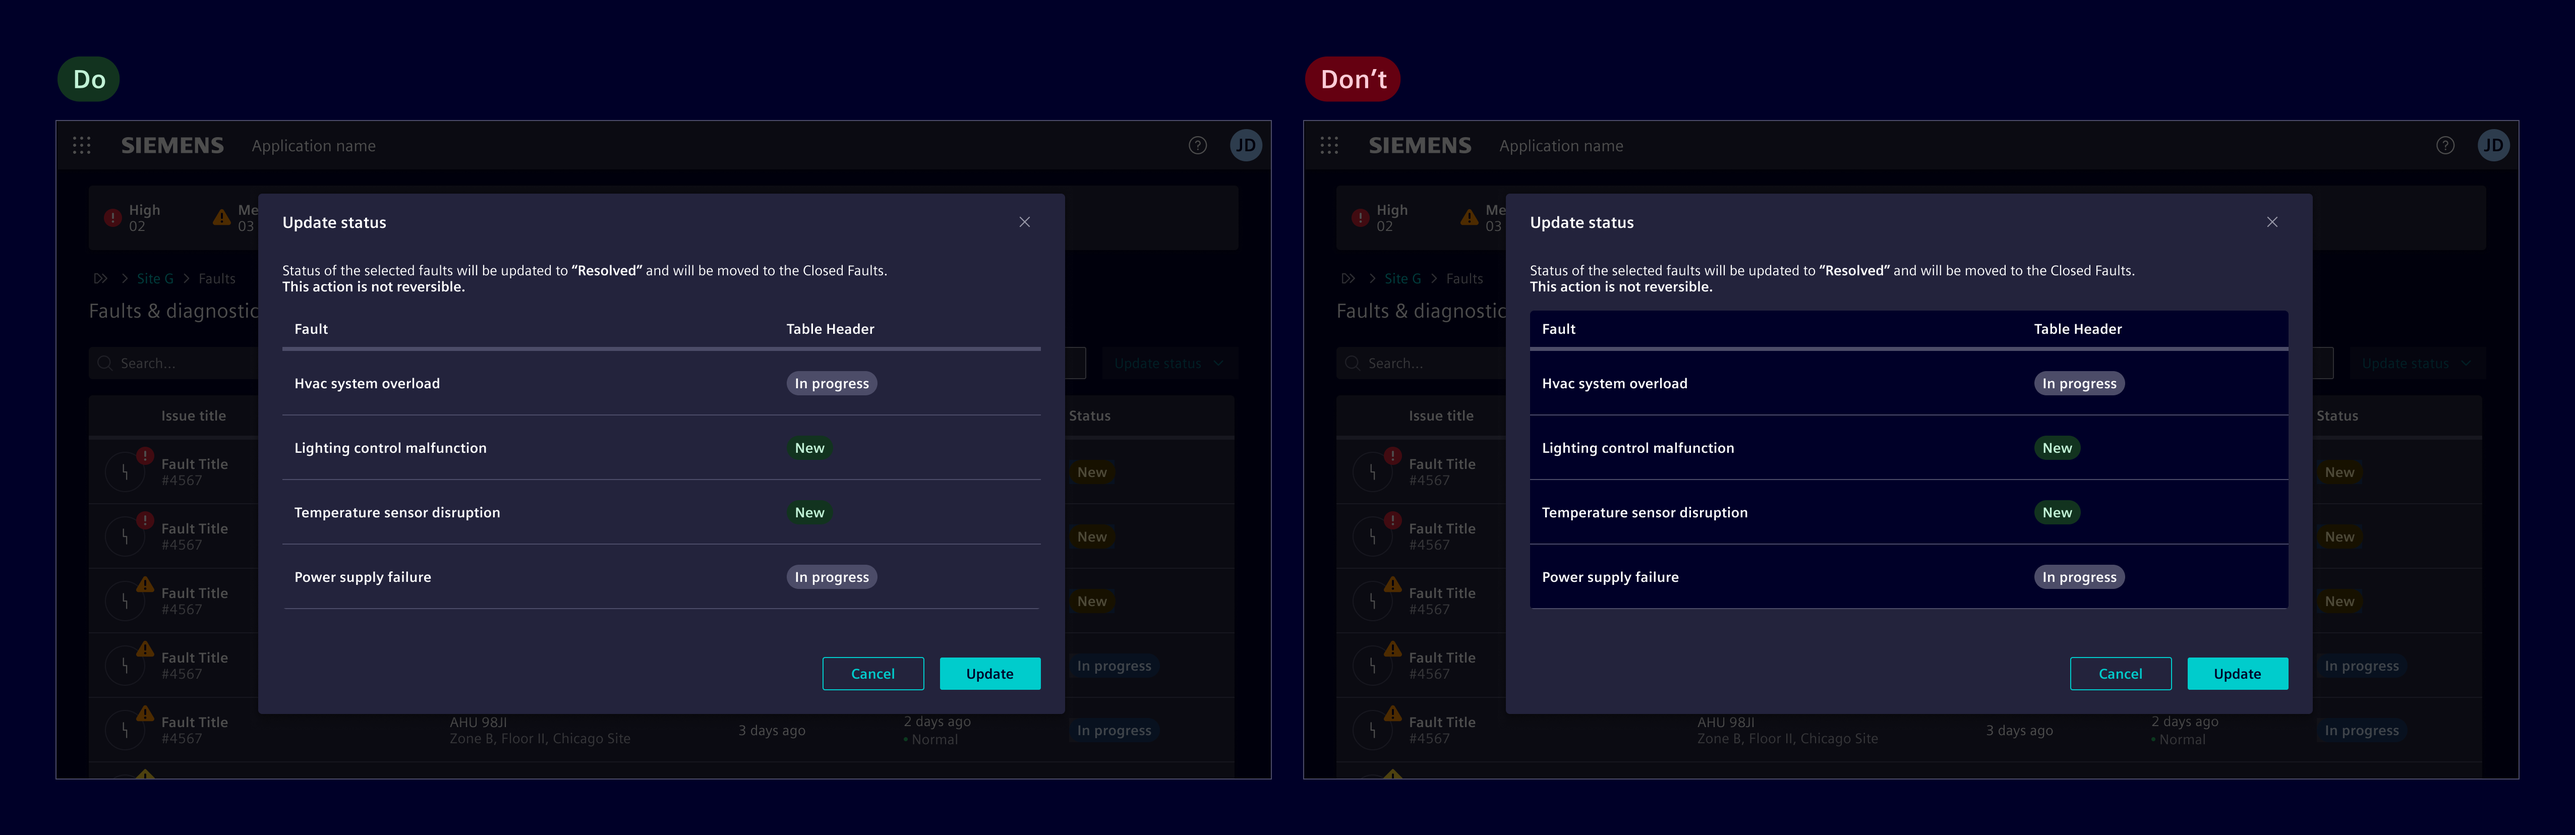
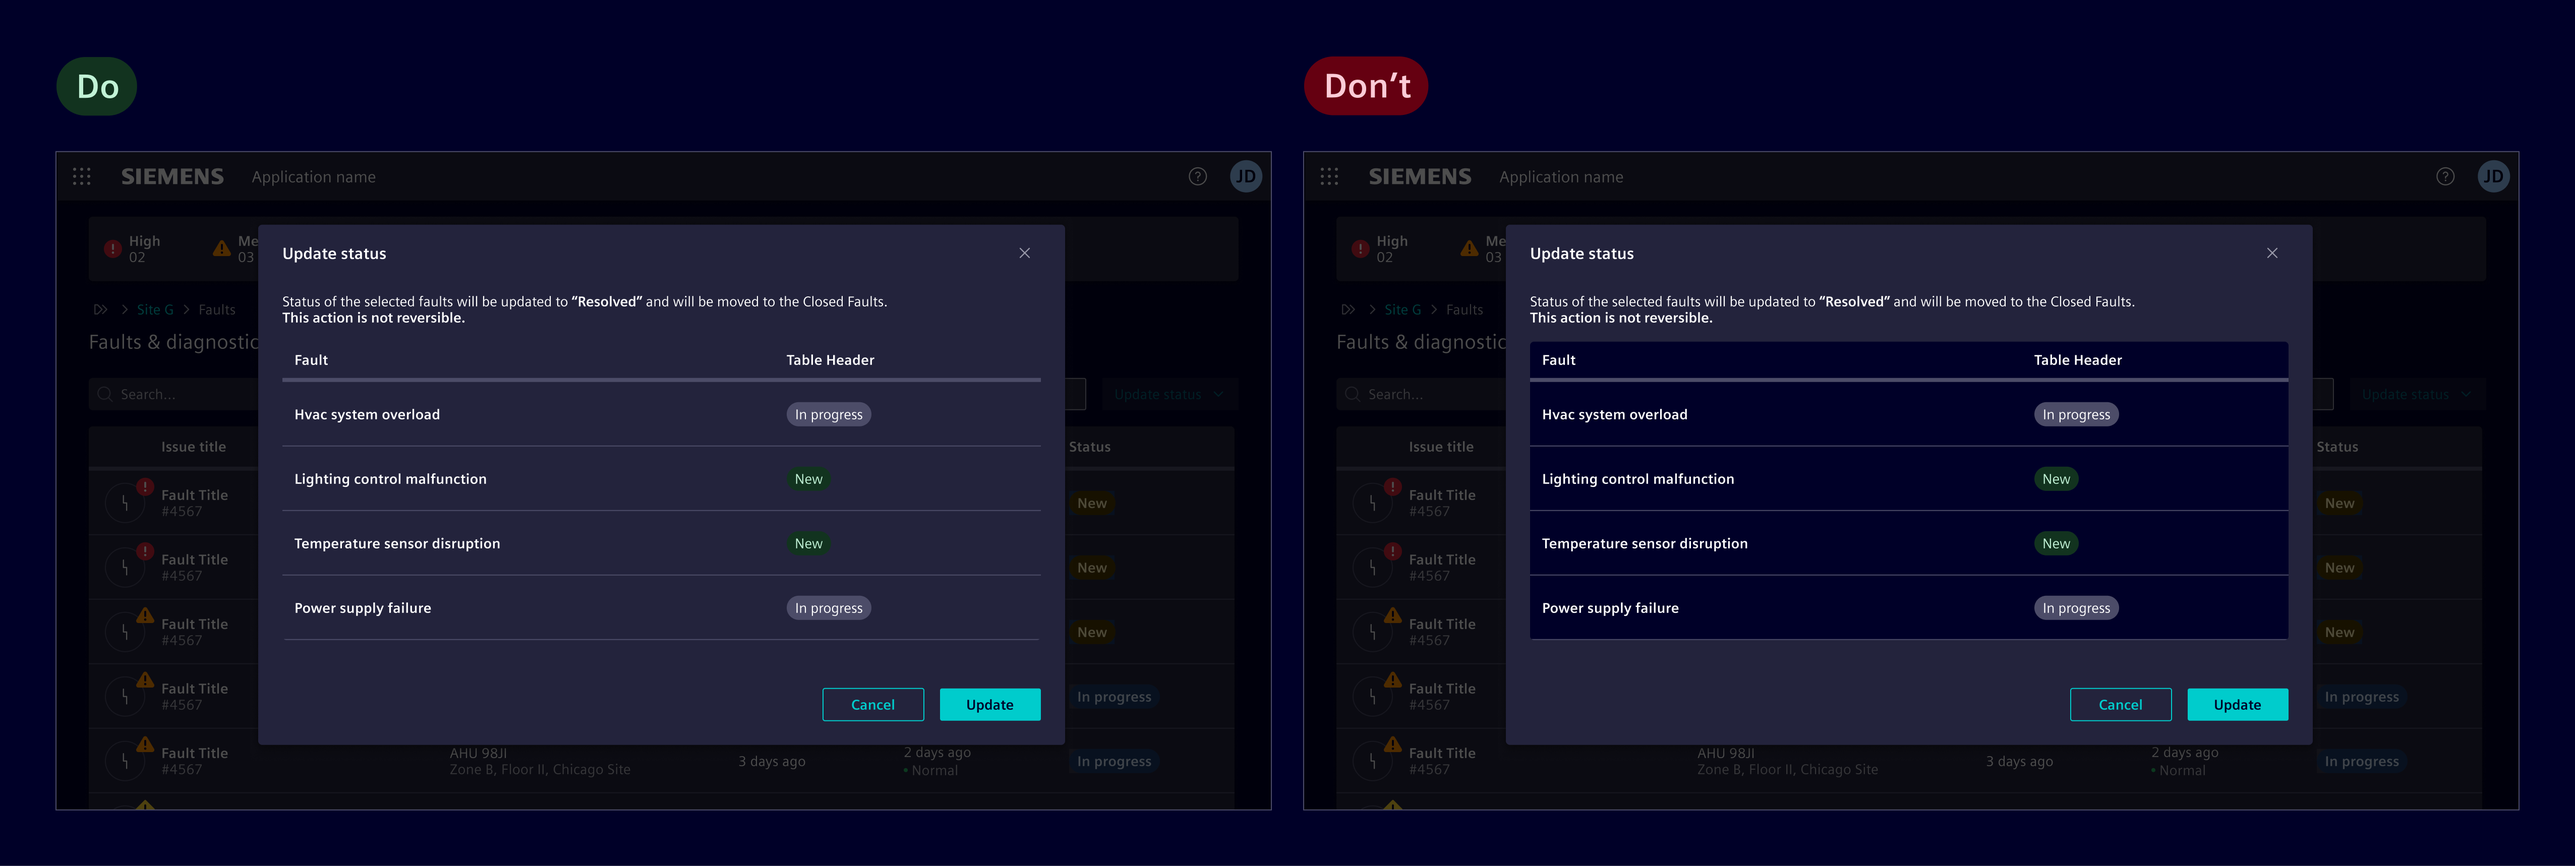
docs(elevation): update ux docs

diff --git a/docs/fundamentals/elevation.md b/docs/fundamentals/elevation.md
@@ -25,17 +25,17 @@ These are independent color tokens and are designed to work across all base laye
 
 ![Elevation usage example](images/elevation-usage-example.png)
 
-The system is intentionally mostly flat, and we aim to avoid excessive layering or "boxes within boxes," as this can reduce clarity and compromise usability.
+The system is intentionally mostly flat, and we aim to avoid excessive layering or "boxes within boxes", as this can reduce clarity.
 
 ![Elevation layers do's and don'ts](images/elevation-do-and-donts.png)
 
-However, in specific cases where additional differentiation is necessary, is possible to use other elements (?)
+However, in specific cases where additional differentiation is necessary:
 
-- Use an outline with `ui-4` to define boundaries between elements on the same layer, such as layout sections. It adds subtle structure without changing the background.
-- Use `base-4` when a stronger distinction is needed, especially to  highlight a container. It works on both base-0 and base-1.
+- Use an outline with `ui-4` to define boundaries between elements on the same layer,
+  such as layout sections or grouped content
+- Use `base-4` when a stronger distinction is needed, especially to  highlight a container.
 
-[image here]
-
+![Elevation exceptions example](images/elevation-exceptions.png)
 
 ### Shadows
 
